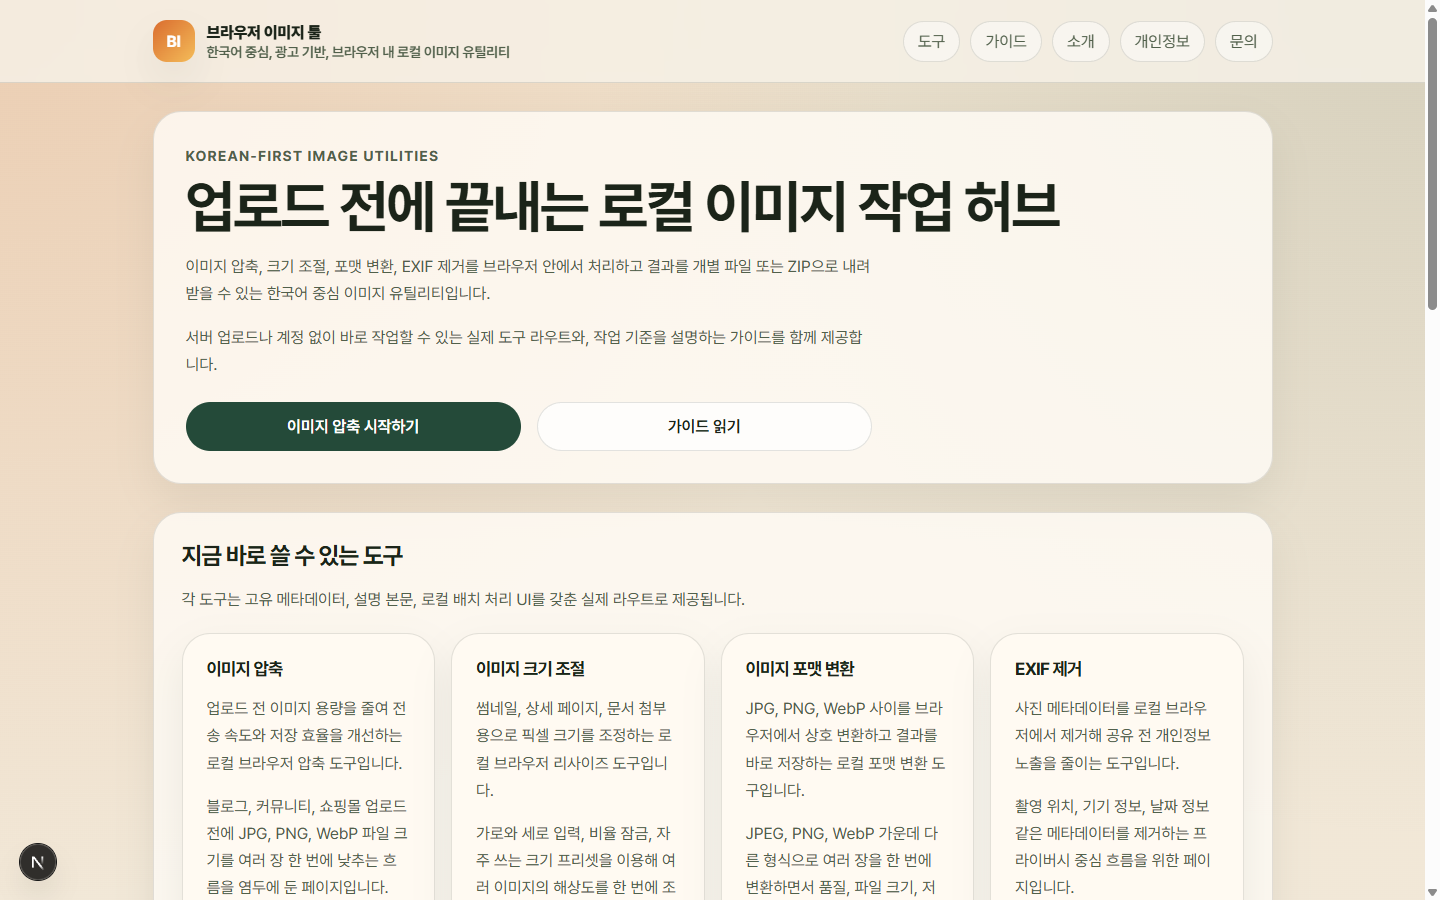
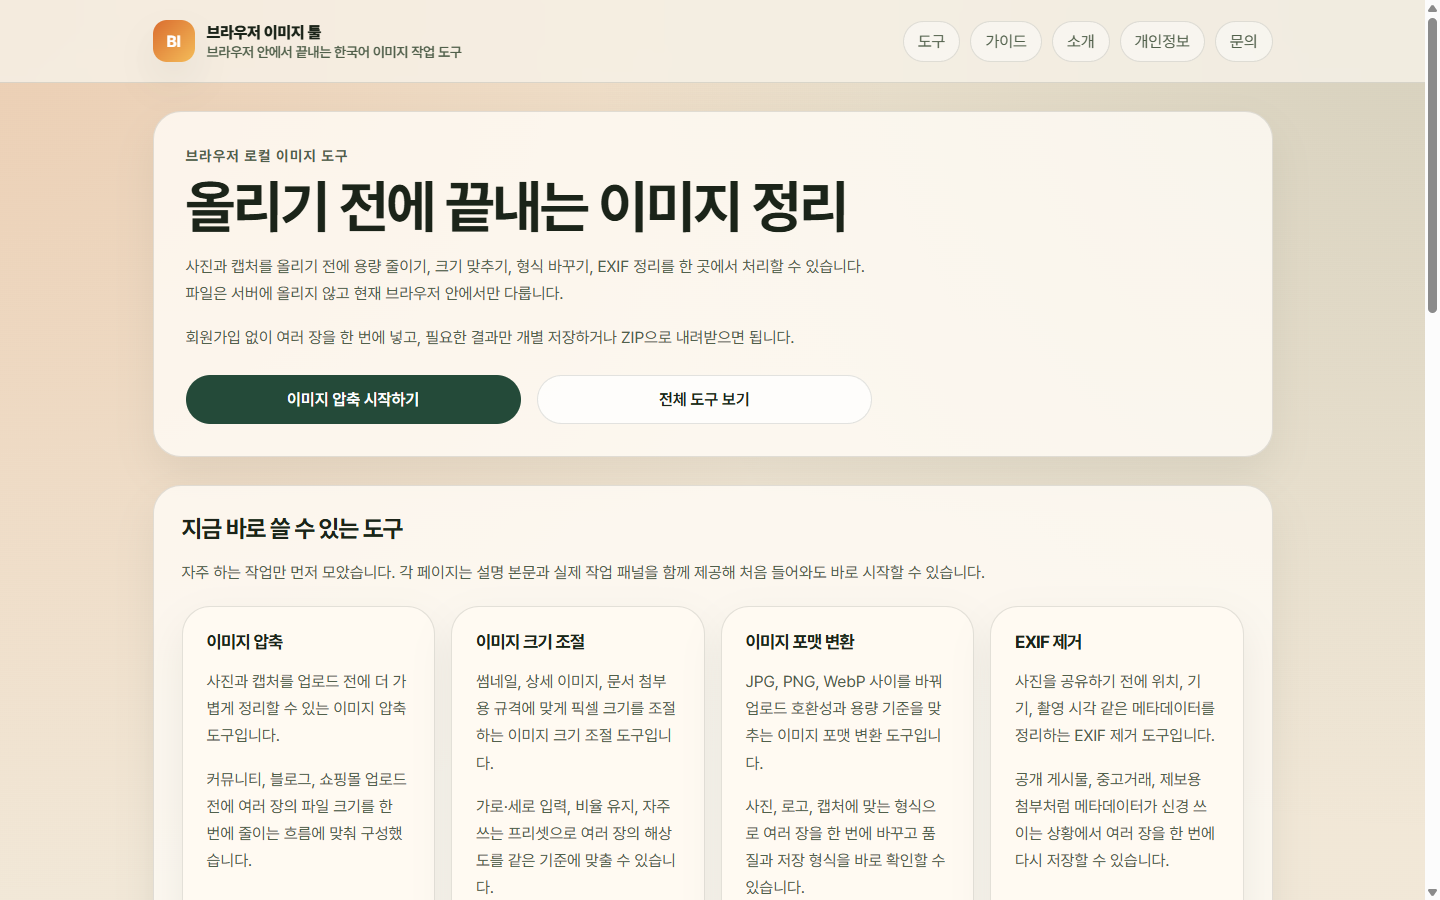
chore: add proof assets package

diff --git a/README.md b/README.md
@@ -1,21 +1,36 @@
 # 브라우저 이미지 툴
 
-브라우저 안에서 이미지 압축, 크기 조절, 포맷 변환, EXIF 정리를 끝내는 한국어 중심 이미지 유틸리티 사이트입니다. 이 저장소는 실제 제품 형태를 염두에 둔 프론트엔드 포트폴리오 프로젝트이며, 파일 처리와 배치 내보내기를 모두 브라우저에서 해결하는 흐름을 구현합니다.
+[![CI](https://github.com/jongha1230/browser-image-tools/actions/workflows/ci.yml/badge.svg)](https://github.com/jongha1230/browser-image-tools/actions/workflows/ci.yml)
 
-## 어떤 제품인가
+브라우저 안에서 이미지 압축, 크기 조절, 포맷 변환, EXIF 정리, 배치 내보내기를 끝내는 한국어 중심 이미지 유틸리티 사이트입니다. 이 저장소는 실제 제품 형태를 염두에 둔 프론트엔드 포트폴리오 프로젝트이며, 파일 처리와 다운로드 준비를 모두 브라우저 안에서 끝내는 흐름을 구현합니다.
 
-- 커뮤니티, 블로그, 쇼핑몰, 문서 첨부 전에 이미지를 빠르게 정리하고 싶은 사용자를 위한 도구입니다.
-- 복잡한 편집기보다 업로드 전 준비 작업에 집중합니다.
-- 각 도구는 실제 URL, 개별 메타데이터, 설명형 HTML 본문, 클라이언트 도구 셸을 함께 가집니다.
+## 공개 데모
+
+- Production demo: [https://browser-image-tools.vercel.app](https://browser-image-tools.vercel.app)
+- Proof assets package: [docs/proof-assets.md](./docs/proof-assets.md)
+- 캡처 기준일: 2026년 3월 15일, Vercel production alias 기준
+- 현재는 커스텀 도메인 연결 전 단계라 `noindex`를 유지합니다.
 
 ## 현재 구현된 기능
 
-- 이미지 압축: JPEG, PNG, WebP를 다시 인코딩해 용량을 줄이고 결과를 비교합니다.
+- 이미지 압축: JPEG, PNG, WebP를 다시 인코딩해 용량을 줄이거나 결과 변화를 비교합니다.
 - 이미지 크기 조절: 가로·세로 입력, 비율 유지, 프리셋으로 여러 장의 해상도를 맞춥니다.
 - 이미지 포맷 변환: JPEG, PNG, WebP 사이를 상호 변환합니다.
 - EXIF 제거: 원본 형식으로 다시 저장해 메타데이터를 정리합니다.
 - 배치 내보내기: 성공한 결과만 골라 개별 저장하거나 ZIP으로 내려받습니다.
 - 가이드 콘텐츠: 압축 기준, 포맷 선택, 프라이버시, 배치 리사이즈 판단 기준을 설명합니다.
+
+## 스크린샷
+
+아래 이미지는 2026년 3월 15일에 production demo를 Playwright CLI로 다시 캡처했습니다. 데스크톱은 `1440x900`, 모바일은 `390x844` 뷰포트를 사용했습니다.
+
+| 홈 | 압축 워크플로 |
+| --- | --- |
+| ![홈 화면](./docs/screenshots/home-desktop.png) | ![압축 도구 워크플로](./docs/screenshots/compress-workflow.png) |
+| 처리 결과 | 모바일 홈 |
+| ![압축 결과 상태](./docs/screenshots/compress-result.png) | ![모바일 홈 화면](./docs/screenshots/home-mobile.png) |
+
+압축 결과 캡처는 PNG 무손실 재저장 예시라 결과 파일이 더 커진 실제 케이스를 그대로 보여 줍니다. 더 좋아 보이는 숫자를 만들기보다, UI가 불리한 결과도 그대로 드러내는지 확인하는 데 초점을 맞췄습니다.
 
 ## 왜 브라우저 로컬 처리가 중요한가
 
@@ -35,17 +50,18 @@
 - 브라우저 메모리 내 배치 ZIP 생성
 - Vitest 기반 유틸리티 테스트
 
-도구 페이지는 초기 응답에서 설명 콘텐츠를 먼저 렌더링하고, 실제 파일 처리 UI는 클라이언트에서 이어 붙입니다. 이렇게 하면 각 도구가 검색 가능한 독립 페이지로 동작하면서도, 파일 처리는 끝까지 브라우저 안에 머무를 수 있습니다.
+도구 페이지는 초기 응답에서 설명 콘텐츠를 먼저 렌더링하고, 실제 파일 처리 UI는 클라이언트에서 이어 붙입니다. 각 도구가 검색 가능한 독립 페이지로 동작하면서도, 파일 처리는 끝까지 브라우저 안에 머무를 수 있습니다. 처리 경로 다이어그램과 캡처 근거는 [docs/proof-assets.md](./docs/proof-assets.md)에 정리했습니다.
 
-## 스크린샷
+## 브라우저 지원 / 알려진 제한
 
-### 홈
+- 2026년 3월 15일 기준 manual smoke check 범위는 production demo의 Chromium 캡처 흐름입니다.
+- 현재 구현은 Canvas, Blob, `URL.createObjectURL`, Web Worker, 다운로드 링크를 지원하는 최신 브라우저를 전제로 합니다.
+- Web Worker 초기화가 불가능하거나 실패하면 메인 스레드 폴백 경로로 같은 처리 파이프라인을 실행합니다.
+- 매우 큰 파일이나 대량 배치는 브라우저 메모리와 기기 성능에 직접 영향을 받습니다.
+- 지원 형식은 JPEG, PNG, WebP에 한정됩니다.
+- 백엔드 업로드, 계정, 데이터베이스, 클라우드 동기화, PDF, HEIC, RAW, 비디오, 엔드유저 AI 기능은 포함하지 않습니다.
 
-![홈 화면](./docs/screenshots/home-desktop.png)
-
-### 압축 도구
-
-![압축 도구 작업 화면](./docs/screenshots/compress-workflow.png)
+자세한 제한 사항은 [docs/known-limitations.md](./docs/known-limitations.md)를 확인하면 됩니다.
 
 ## 로컬 실행
 
@@ -67,31 +83,16 @@ npm run dev
 
 ## Vercel 배포 메모
 
-- 공개 데모 단계에서는 Vercel Production 배포를 안정적인 공유용 `vercel.app` 주소로 사용하고, 커스텀 도메인을 연결하기 전까지는 검색 노출을 계속 막습니다.
+- 공개 데모 단계에서는 Vercel Production 배포를 안정적인 공유용 `vercel.app` 주소로 사용합니다.
 - 최종 운영 도메인이 정해지기 전에는 `SITE_URL`과 `NEXT_PUBLIC_SITE_URL`을 비워 두는 편이 안전합니다.
 - 이 상태에서는 사이트가 `noindex` 메타데이터와 `X-Robots-Tag` 응답 헤더를 함께 내보내고, `robots.txt`는 전체 차단, `sitemap.xml`은 빈 목록, `rss.xml`은 `404`로 응답합니다.
 - 최종 도메인을 연결한 뒤에는 Production 환경 변수 `SITE_URL`과 `NEXT_PUBLIC_SITE_URL`을 같은 `https://` 원본으로 설정해야 합니다.
-- 공유용 데모 링크는 Preview URL이 아니라 프로젝트의 안정적인 Production `vercel.app` 주소를 기준으로 문서와 소개 자료에 기록하는 편이 좋습니다.
-- 운영 도메인 연결 이후에는 기본 `vercel.app` 호스트나 보조 도메인 접근이 정식 캐노니컬 호스트로 리디렉션되도록 준비되어 있습니다.
-- 자세한 운영 절차는 [Vercel launch guide](./docs/vercel-launch.md)를 확인하면 됩니다.
-
-## 현재 한계
-
-- 지원 형식은 JPEG, PNG, WebP에 한정됩니다.
-- PDF, HEIC, RAW, 비디오, AI 기능은 포함하지 않습니다.
-- 백엔드 업로드, 계정, 작업 이력 저장, 클라우드 동기화는 없습니다.
-- 브라우저 메모리를 사용하므로 매우 큰 파일이나 대량 배치는 기기 성능에 영향을 받을 수 있습니다.
-- EXIF 제거는 메타데이터 정리에 초점이 있으며, 이미지 안에 직접 보이는 민감 정보는 가리지 않습니다.
-
-## 다음 단계
-
-- 도구별 프리셋과 안내 문구를 더 촘촘하게 다듬기
-- 가이드와 도구 사이의 내부 연결을 더 실용적으로 확장하기
-- 실제 광고 제공사가 확정되면 개인정보·쿠키 고지를 실데이터 기준으로 추가하기
-- 대용량 배치 처리에서 워커 활용과 브라우저 메모리 사용을 더 최적화하기
+- 자세한 운영 절차는 [docs/vercel-launch.md](./docs/vercel-launch.md)를 확인하면 됩니다.
 
 ## 문서
 
+- [Proof assets package](./docs/proof-assets.md)
+- [브라우저 지원 / known limitations](./docs/known-limitations.md)
 - [제품 범위](./docs/product-scope.md)
 - [라우트 맵](./docs/route-map.md)
 - [Vercel launch guide](./docs/vercel-launch.md)

diff --git a/docs/proof-assets.md b/docs/proof-assets.md
@@ -1,0 +1,60 @@
+# Proof Assets Package
+
+README, 포트폴리오 케이스 스터디, PR 설명에서 재사용할 수 있는 공개 증빙 묶음입니다. 기능 목록을 늘리는 대신, 현재 구현 상태를 더 신뢰 가능하게 보여 주는 자료만 모았습니다.
+
+## 공개 데모 기준점
+
+- URL: [https://browser-image-tools.vercel.app](https://browser-image-tools.vercel.app)
+- 배포 유형: Vercel production alias
+- 캡처 기준일: 2026년 3월 15일
+- 현재 상태: 커스텀 도메인 연결 전이라 `noindex` 유지
+
+## 포트폴리오용 핵심 설명
+
+브라우저 이미지 툴은 한국어 중심 정보 구조와 로컬 전용 파일 처리 흐름을 결합한 이미지 유틸리티 프로젝트입니다. 각 도구는 실 URL, 개별 메타데이터, 설명형 SSR 본문을 갖고 있고, 실제 파일 처리와 ZIP 내보내기는 브라우저 안에서만 실행됩니다. 서버 업로드 없이도 제품다운 흐름, 배치 처리, 실패/성공 상태, 다운로드 단계를 한 화면에서 확인할 수 있다는 점이 이 프로젝트의 핵심 증거입니다.
+
+## 에셋 목록
+
+| 에셋 | 경로 | 용도 | 메모 |
+| --- | --- | --- | --- |
+| 홈 데스크톱 스크린샷 | [docs/screenshots/home-desktop.png](./screenshots/home-desktop.png) | README 첫인상, 포트폴리오 소개 | Production demo 기준 |
+| 압축 워크플로 스크린샷 | [docs/screenshots/compress-workflow.png](./screenshots/compress-workflow.png) | 실제 작업 패널 증빙 | 업로드 후 실행 전 상태 |
+| 압축 결과 스크린샷 | [docs/screenshots/compress-result.png](./screenshots/compress-result.png) | 결과 저장, 배치 진행률, 수치 증빙 | 성공 상태와 ZIP/개별 다운로드 노출 |
+| 모바일 스크린샷 | [docs/screenshots/home-mobile.png](./screenshots/home-mobile.png) | 반응형 소개 자료 | `390x844` 기준 |
+| CI 배지 | [README.md](../README.md) | 저장소 검증 신뢰도 | GitHub Actions `ci.yml` 연결 |
+
+## 캡처 문맥
+
+- 캡처는 Playwright CLI 래퍼로 production demo를 직접 열어 다시 수집했습니다.
+- 데스크톱 뷰포트는 `1440x900`, 모바일 뷰포트는 `390x844`를 사용했습니다.
+- 압축 워크플로와 결과 상태는 커밋된 PNG 스크린샷 파일을 실제 입력으로 사용했습니다.
+- 그 결과, PNG 무손실 재저장 예시에서는 출력 파일이 원본보다 `218 KB` 커졌습니다. 이 수치는 숨기지 않았고, UI가 불리한 결과도 그대로 보여 준다는 증거로 유지했습니다.
+
+## 처리 경로 다이어그램
+
+```mermaid
+flowchart LR
+    A["사용자 업로드 / 드롭 / 붙여넣기"] --> B["메인 스레드: 파일 검증, 큐 구성, 미리보기"]
+    B --> C{"Web Worker 사용 가능?"}
+    C -->|예| D["Worker: 디코드 -> Canvas 처리 -> Blob 생성"]
+    C -->|아니오| E["메인 스레드 폴백: 같은 처리 파이프라인 실행"]
+    D --> F["결과 메타데이터 갱신"]
+    E --> F
+    F --> G{"내보내기"}
+    G --> H["개별 다운로드"]
+    G --> I["브라우저 메모리 ZIP 생성 후 다운로드"]
+```
+
+## 브라우저 지원 / 현재 제한
+
+- 수동 검증 범위는 2026년 3월 15일 production demo의 Chromium 캡처 흐름입니다.
+- 현재 구현은 Canvas, Blob, Web Worker, 다운로드 링크를 지원하는 최신 브라우저를 전제로 합니다.
+- Worker 초기화 실패 시 메인 스레드 폴백이 동작하지만, 대용량 배치에서는 체감 성능 차이가 날 수 있습니다.
+- 지원 형식은 JPEG, PNG, WebP에 한정되며, PDF, HEIC, RAW, 비디오, 백엔드 업로드, 계정 기능은 포함하지 않습니다.
+- 자세한 범위 밖 항목과 후속 개선 메모는 [docs/known-limitations.md](./known-limitations.md)에 정리했습니다.
+
+## 재사용 포인트
+
+- README에서는 데모 URL, 배지, 스크린샷 갤러리, proof package 링크를 한 번에 보여 줍니다.
+- 포트폴리오 케이스 스터디에서는 위 다이어그램과 캡처 문맥, 스크린샷 4종을 그대로 재사용할 수 있습니다.
+- PR 설명에서는 검증 섹션에 production demo 캡처 기준일과 CI 실행 결과를 함께 적으면 됩니다.

diff --git a/docs/known-limitations.md b/docs/known-limitations.md
@@ -1,23 +1,33 @@
-# Known Limitations And Future Work
+# Browser Support And Known Limitations
+
+## 브라우저 지원 범위
+
+- 2026년 3월 15일 기준 수동 검증 범위는 production demo의 Chromium 캡처 흐름입니다.
+- 캡처 뷰포트는 데스크톱 `1440x900`, 모바일 `390x844`를 사용했습니다.
+- 현재 구현은 Canvas, Blob, `URL.createObjectURL`, Web Worker, 다운로드 링크를 지원하는 최신 브라우저를 전제로 합니다.
+- Web Worker가 초기화되지 않거나 지원되지 않으면 메인 스레드 폴백 경로로 같은 처리 파이프라인을 실행합니다.
 
 ## 현재 제한 사항
 
 - 입력과 출력은 JPEG, PNG, WebP만 지원합니다.
-- 모든 처리는 브라우저 메모리 안에서 이뤄지므로 매우 큰 파일이나 대량 배치에서는 느려질 수 있습니다.
+- 모든 처리는 브라우저 메모리 안에서 이뤄지므로 매우 큰 파일이나 대량 배치에서는 느려지거나 탭 메모리 사용량이 커질 수 있습니다.
 - 브라우저가 특정 형식 재인코딩을 지원하지 않으면 일부 출력 형식은 실패할 수 있습니다.
 - EXIF 제거는 재저장 방식이라 메타데이터 정리에 도움이 되지만, 이미지 안에 보이는 민감 정보까지 숨기지 않습니다.
 - 분석 스크립트와 광고 스크립트는 아직 연결하지 않았습니다.
-
-## 출시 후 우선순위가 높은 작업
-
-- 대용량 배치 처리 시 메모리 사용량과 진행률 체감 개선
-- 도구별 프리셋과 입력 검증 문구 세분화
-- 실제 광고 운영 정보가 준비된 뒤 정책 고지와 관련 기술 파일 보강
-- 검색 유입 기준으로 가이드 내부 링크와 FAQ 확장
 
 ## 범위 밖 항목
 
 - 백엔드 업로드
 - 계정, 인증, 데이터베이스
+- 클라우드 저장 또는 동기화
 - PDF, HEIC, RAW, 비디오 처리
 - 엔드유저 대상 AI 기능
+
+## 후속 개선 메모
+
+- 대용량 배치 처리 시 메모리 사용량과 진행률 체감 개선
+- 도구별 프리셋과 입력 검증 문구 세분화
+- 실제 광고 운영 정보가 준비된 뒤 정책 고지와 관련 기술 파일 보강
+- 브라우저별 수동 QA 범위를 Chromium 밖으로 확장
+
+증빙 캡처와 아키텍처 요약은 [docs/proof-assets.md](./proof-assets.md)에서 함께 확인할 수 있습니다.
